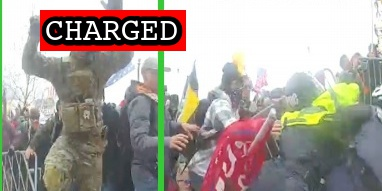
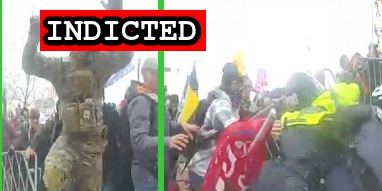
Pollock indictment

Changed region(s): [[0.0864, 0.0524, 0.5471, 0.288]]

diff --git a/docs/_suspects/jonathan-pollock.md b/docs/_suspects/jonathan-pollock.md
@@ -3,7 +3,7 @@ name: Jonathan Pollock
 lastName: Pollock
 aka:
 residence:
-status: Charged
+status: Indicted
 date: 2021-07-07
 charged: 2021-07-07
 indicted: 2021-07-01
